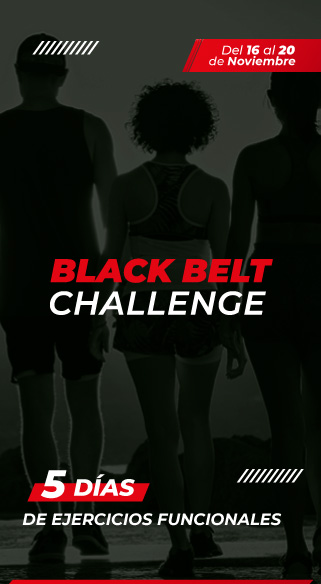
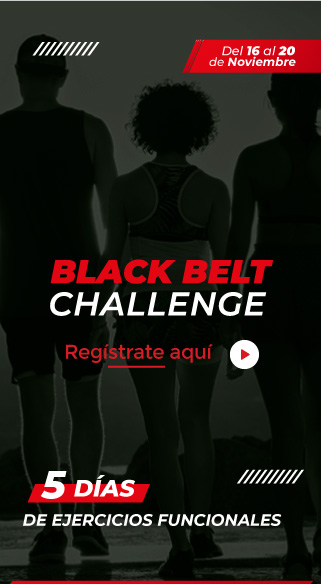
cambio boton en evento y enlace a reto

diff --git a/blackbell/resources/views/home.blade.php b/blackbell/resources/views/home.blade.php
@@ -113,8 +113,8 @@
             </ul>
         </div>
     </div>
-    <img src="../../img/portada/destokp.jpg" alt="evento" class="evento"/>
-    <img src="../../img/portada/movil.jpg" alt="evento-movil" class="evento-responsive"/>
+    <a href="{{route('reto')}}"><img src="../../img/portada/desktop.jpg" alt="evento" class="evento"/></a>
+    <a href="{{route('reto')}}"><img src="../../img/portada/movil.jpg" alt="evento-movil" class="evento-responsive"/></a>
   <!--  <div class="banner-evento">
         <div class="row">
             <div class="offset-md-6  col-md-4">
